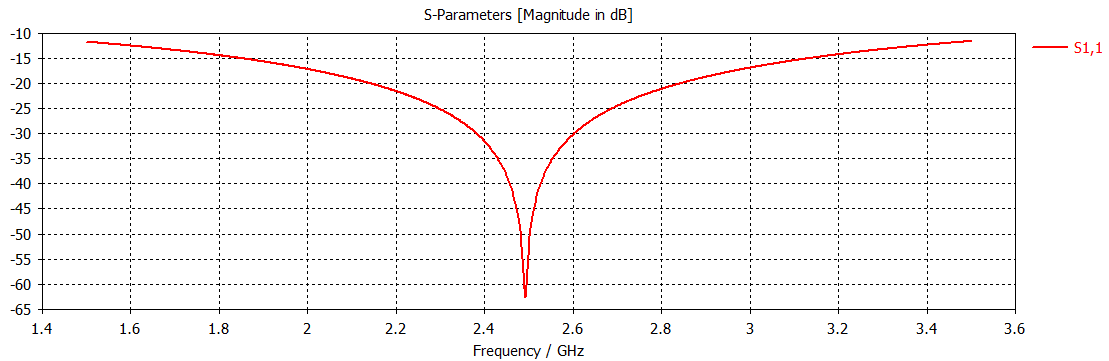
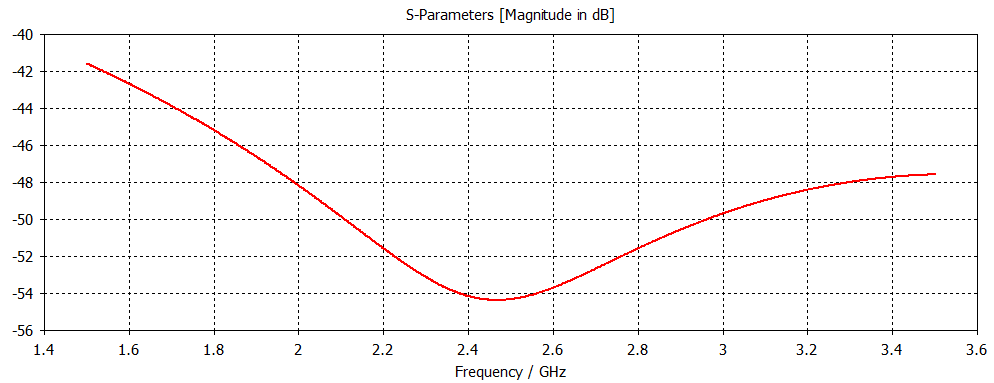
Finished part 1
finished part 1, still need to be revised

diff --git a/TeX_files/problem1.tex b/TeX_files/problem1.tex
@@ -34,7 +34,7 @@ One possible implementation is proposed in figure \ref{fig:p1_bfn_block}, where 
 	\item [Splitter2] this section matches the radiating elements with section1 outputs, moreover it convey power into the radiators giving the correct power ratio between elements.
 	\item [Splitter3] this is symmetric to section2 with respect to the feeding line longitudinal axis. 
 	\item [Match1] these lines acts as matching connection from power splitter1 to power splitters2 and 3, moreover they are used to adjust the distance between elements.
-	\item [Match2] matching connections between radiators and power splitters2,33;
+	\item [Match2] matching connections between radiators and power splitters2,3;
 \end{description}
 Overall the BFN must be designed in order to be compliant with the requirement on:
 \begin{itemize}
@@ -42,10 +42,10 @@ Overall the BFN must be designed in order to be compliant with the requirement o
 	\item amplitude tapering between edge and centre elements;
 	\item main beam direction: since the array is broadside then the phase shift among elements must be null.
 \end{itemize}
+Another requirement concerns the full array's dimensions, although those are not specified particular attention will it has been devoted into taking the minimal amount of space.
 Each block's design and simulation are reported in the following paragraphs.
 
 \subsection{Splitter 1 design}
-
 Figure \ref{fig:p1_sec1_block} shows the block diagram of splitter1. 
 \begin{figure}[H] 
 	\centering
@@ -66,7 +66,7 @@ The two quarter-wavelength transformers are seen as two parallel admittances fro
 \begin{equation}
 	Z_{c,QW}= \sqrt{R_{in,QW}\cdot R_{out,QW}}=\sqrt{100\Omega\cdot 50\Omega}=70.7\Omega \notag
 \end{equation}
-\begin{figure}[H] 
+\begin{figure}[t] 
 	\centering
 	\includegraphics[scale=0.5]{p1_sec1_ustrip}
 	\caption{Splitter1 microstrip implementation. }
@@ -82,9 +82,8 @@ Theoretical and optimized dimensions are reported in table \ref{tab:p1_sec1DimIN
 		\toprule
 			& theoretical & optimized&\\
 		\midrule 
-		W\textsubscript{in} 	&	3.020		&	2.964	 & mm 		\\
-		L\textsubscript{in}		&	16.797		& 	17.976		& mm	\\ 
-		Z\textsubscript{c,in}	& 	50 & 50.6	&$\Omega$ \\
+		W\textsubscript{in} 	&	3.02		&	2.91	 & mm 		\\
+		Z\textsubscript{c,in}	& 	50 			& 50.06		&$\Omega$ \\
 		\bottomrule
 	\end{tabular}	
 \end{table}
@@ -96,9 +95,9 @@ Theoretical and optimized dimensions are reported in table \ref{tab:p1_sec1DimIN
 		\toprule
 		& theoretical & optimized&\\
 		\midrule 
-		W\textsubscript{QW} 	&	1.599		&	1.458	& mm		\\
-		L\textsubscript{QW}	&	17.248		& 	16.706		& mm	\\ 
-		Z\textsubscript{c,QW}& 	70.7 &73.9	&$\Omega$ \\
+		W\textsubscript{QW} 	&	1.59		&	1.49	& mm		\\
+		L\textsubscript{QW}	&	17.25		& 	17.3		& mm	\\ 
+		Z\textsubscript{c,QW}& 	70.7 &73.1	&$\Omega$ \\
 		\bottomrule
 	\end{tabular}	
 \end{table}
@@ -120,7 +119,7 @@ Figure \ref{fig:p1_sec2_block} shows the block diagram of splitter2 and match1 (
 	\caption{Splitter2 and match1 TXL implementation. }
 	\label{fig:p1_sec2_block}
 \end{figure}
-Match1 lines are designed as $\lambda_{g}/2$, 50$\Omega$ characteristic impedance microstrip lines. Acting as transparent transmission lines, they allow splitter2 and 3 to have Z\textsubscript{in}=50$\Omega$ at their input ports. Again a Z\textsubscript{out}=50$\Omega$ is chosen to avoid abrupt impedance variations. Imposing Z\textsubscript{in}=50$\Omega$ we also avoid the appearance of lines narrower than W\textsubscript{min} within the power splitter2 (and splitter3).
+Match1 lines are designed as $\lambda_{g}/2$, 50$\Omega$ characteristic impedance microstrip lines. Since both the output of splitter1 and the input of splitter2,3 are matched to 50$\Omega$, the length of these line can be chosen as necessary to impose the correct distance between the radiators. Again, splitter2,3's output impedance is set to Z\textsubscript{out}=50$\Omega$ to avoid abrupt mismatch in contiguous lines connections. Moreover, imposing Z\textsubscript{in}=50$\Omega$ we also avoid the appearance of lines narrower than W\textsubscript{min} within the two splitters.
 
 The splitter is composed by two quarter-wavelength transformers that provide the correct current tapering for the radiators. To design that we will consider the power entering and exiting the component.
 Having chosen as tapering t=0.54, then:
@@ -151,58 +150,46 @@ From equation (\ref{eq:p1_ZcQW}):
 	Z_{c,QWb}=\sqrt{R_{in,QWb}\cdot Z_{out}}=\sqrt{221\Omega \cdot 50\Omega}=105\Omega \notag \\
 	Z_{c,QWa}=\sqrt{R_{in,QWa}\cdot Z_{out}}=\sqrt{64.4\Omega \cdot 50\Omega}=56.7\Omega \notag
 \end{gather}
-The circuit has been then converted into microstrip layout and simulated. Optimized dimensions for this section are reported in table \ref{tab:p2_sec2DimM1}, \ref{tab:p2_sec2DimQWa} and \ref{tab:p2_sec2DimQWb}.
-Unfortunately, the splitter2's values found so far produced a wrong tapering (t=-4.2dB), therefore the lines width and length have been tuned till the desired tapering specification has been fulfilled. Since t>-5.3dB we need to increase the difference between R\textsubscript{in,QWa} and R\textsubscript{in,QWb}. 
-With t=-5.2dB we have the best compromise between excitation amplitude distribution and phase shift, that is equal to 3.94$^\circ$.
+Finally, the circuit has been converted into microstrip layout and simulated. Some optimized dimensions for this section are reported in table \ref{tab:p2_sec2DimQWa} and \ref{tab:p2_sec2DimQWb} (Match1 has the same parameters shown in \ref{tab:p1_sec1DimIN}).
+Unfortunately, the values found so far produced both the expected tapering  and 3.46$^\circ$ of phase shift between branches.
 Figure \ref{fig:p2_sec1Scatt} shows the input parameters, while figure \ref{fig:p1_sec2_ustrip} depicts the microstrip implementation.
 \begin{figure}[t] 
 	\centering
 	\includegraphics[scale=0.5]{p1_sec2_ustrip}
-	\caption{Splitter1 microstrip implementation. }
+	\caption{Splitter2 microstrip implementation. }
 	\label{fig:p1_sec2_ustrip}
 \end{figure}
-\begin{table} [H]
-	\label{tab:21_sec2DimM1}
-	\caption{Match1: microstrip dimensions.}
-	\centering	
-	\begin{tabular}{lcccc} 
-		\toprule
-		& theoretical & optimized (no tap)& optimized (tap)&\\
-		\midrule 
-		W\textsubscript{M1} 	&	3.021		&	2.964	&2.695& mm 		\\
-		L\textsubscript{M1}		&	33.594		& 	33.594	&23.133& mm		\\ 
-		Z\textsubscript{c,M1}	&	50			& 	50.6	&53.5& $\Omega$		\\
-		\bottomrule
-	\end{tabular}	
-\end{table}
-\begin{table} [H]
+\newpage
+\begin{table} [h]
 	\label{tab:p2_sec2DimQWa}
 	\caption{Splitter2: quarter-wavelength a dimensions.}
 	\centering	
-	\begin{tabular}{lcccc} 
+	\begin{tabular}{lccc} 
 		\toprule
-		& theoretical & optimized(tap) &optimized (tap)&\\
+		& theoretical & optimized &\\
 		\midrule 
-		W\textsubscript{QWa} 	&	2.435		&	2.106	&2.295& mm		\\
-		L\textsubscript{QWa}	&	16.959		& 	14.656	&15.262& mm		\\ 
-		Z\textsubscript{c,QWa}	&	56.6		& 	61.4	&58.6& $\Omega$		\\
+		W\textsubscript{QWa} 	&	2.44		&	2.17& mm		\\
+		L\textsubscript{QWa}	&	16.96		& 	15.42& mm		\\ 
+		Z\textsubscript{c,QWa}	&	56.6		& 	60.4& $\Omega$		\\
 		\bottomrule
 	\end{tabular}	
 \end{table}
-\begin{table} [H]
+
+\begin{table} [h]
 	\label{tab:p2sec2DimQWb}
 	\caption{Splitter2: quarter-wavelength b dimensions.}
 	\centering	
-	\begin{tabular}{lcccc} 
+	\begin{tabular}{lccc} 
 		\toprule
-		& theoretical & optimized(no tap) &optimized (tap)&\\
+		& theoretical & optimized &\\
 		\midrule 
-		W\textsubscript{QWb} 	&	0.613		&	0.507	&0.457& mm		\\
-		L\textsubscript{QWb}	&	17.709		& 	16.170	&14.005& mm		\\ 
-		Z\textsubscript{c,QWb}	&	105			& 	112		&116& $\Omega$		\\
+		W\textsubscript{QWb} 	&	0.613		&0.43& mm		\\
+		L\textsubscript{QWb}	&	17.709		& 14.11& mm		\\ 
+		Z\textsubscript{c,QWb}	&	105			& 118& $\Omega$		\\
 		\bottomrule
 	\end{tabular}	
 \end{table}
+
 \newpage
 
 \begin{figure}[H] 
@@ -212,7 +199,7 @@ Figure \ref{fig:p2_sec1Scatt} shows the input parameters, while figure \ref{fig:
 	\caption{Section 1 most important scattering parameters. As it appears both input matching and even power splitting are accomplished. The tapering value is t=-5.2dB, the phase shift amount to 3.94$^\circ$ (reference impedance 50$\Omega$).}.
 	\label{fig:p2_sec1Scatt}
 \end{figure}
-
+\newpage
 \subsection{Match2 design}
 
 As final design step another quarter-wavelength transformer is introduced. This element matches splitter2 and splitter3, R\textsubscript{out}=50$\Omega$, output impedance with the radiators' input impedance, equal to Z\textsubscript{in,patch}=120$\Omega$. Using equation (\ref{eq:p1_ZcQW}) we have:
@@ -231,9 +218,9 @@ The conversion from ideal microstrip to layout can be found in table \ref{tab:21
 		\toprule
 		& theoretical 			& optimized &\\
 		\midrule 
-		W\textsubscript{M1} 	&	1.316		&	1.212	& mm 		\\
-		L\textsubscript{M1}		&	17.365		& 	17.365	& mm		\\ 
-		Z\textsubscript{c,M1}	&	77.5		& 	80.45	& $\Omega$		\\
+		W\textsubscript{M2} 	&	1.32		&	1.21	& mm 		\\
+		L\textsubscript{M2}		&	17.37		& 	17.37	& mm		\\ 
+		Z\textsubscript{c,M2}	&	77.5		& 	80.4	& $\Omega$		\\
 		\bottomrule
 	\end{tabular}	
 \end{table}
@@ -241,6 +228,64 @@ The conversion from ideal microstrip to layout can be found in table \ref{tab:21
 \begin{figure}[t] 
 	\centering
 	\includegraphics[scale=0.43]{p1_M2_Smod}
-	\caption{Match2 return loss (reference impedance 50$\Omega$). }
+	\caption{Match2 return loss (reference impedance 77.5$\Omega$). }
 	\label{fig:p1_M2_Smod}
 \end{figure}
+\newpage
+\begin{figure}[H] 
+	\centering
+	\includegraphics[scale=0.7,angle=90]{p1_bfn_compl_BOXES}
+	\caption{Full beam forming network. }
+	\label{fig:p1_bfn_compl1}
+\end{figure}
+
+\newpage
+
+\subsection{Complete BFN with dimensions}
+
+Now that all the main components have been optimized the following step includes the merging of all the sections as shown if figure \ref{fig:p1_bfn_compl1}.
+To connect splitter1 with splitter2 we used a 50$\Omega$ line bent in order to be compliant with the radiators' spacing specification. The bend has been chosen with mitered topology, to reduce parasitics. Furthermore, the 50$\Omega$ and 120$\Omega$ lines parallel to the y axis are kept short to reduce the space occupied by the BFN. Within the following paragraph the performed beam forming network simulation will be presented.
+
+All the beam forming network dimensions are grouped from figure * to figure **.
+\begin{figure}[t] 
+	\centering
+	\includegraphics[scale=0.5]{p1_bfn_quot5}
+	\caption{Here are highlighted the quoted regions. }
+	\label{fig:p1_bfn_quot5}
+\end{figure}
+\newpage 
+\begin{figure}[H] 
+	\centering
+	\includegraphics[scale=0.7,angle=90]{p1_bfn_quot0}
+	\caption{Here the quoted regions are highlighted. }
+	\label{fig:p1_bfn_quot0}
+\end{figure}
+
+\begin{figure}[H] 
+	\centering
+	\includegraphics[scale=0.7,angle=90]{p1_bfn_quot1}
+	\caption{Quoted BFN: region D. }
+	\label{fig:p1_bfn_quot1}
+\end{figure}
+
+\begin{figure}[H] 
+	\centering
+	\includegraphics[scale=0.6,angle=90]{p1_bfn_quot2}
+	\caption{Quoted BFN: region A. }
+	\label{fig:p1_bfn_quot2}
+\end{figure}
+
+\begin{figure}[H] 
+	\centering
+	\includegraphics[scale=0.6,angle=90]{p1_bfn_quot3}
+	\caption{Quoted BFN: region B. }
+	\label{fig:p1_bfn_quot3}
+\end{figure}
+
+\begin{figure}[H] 
+	\centering
+	\includegraphics[scale=0.6,angle=90]{p1_bfn_quot4}
+	\caption{Quoted BFN: region C. }
+	\label{fig:p1_bfn_quot4}
+\end{figure}
+
